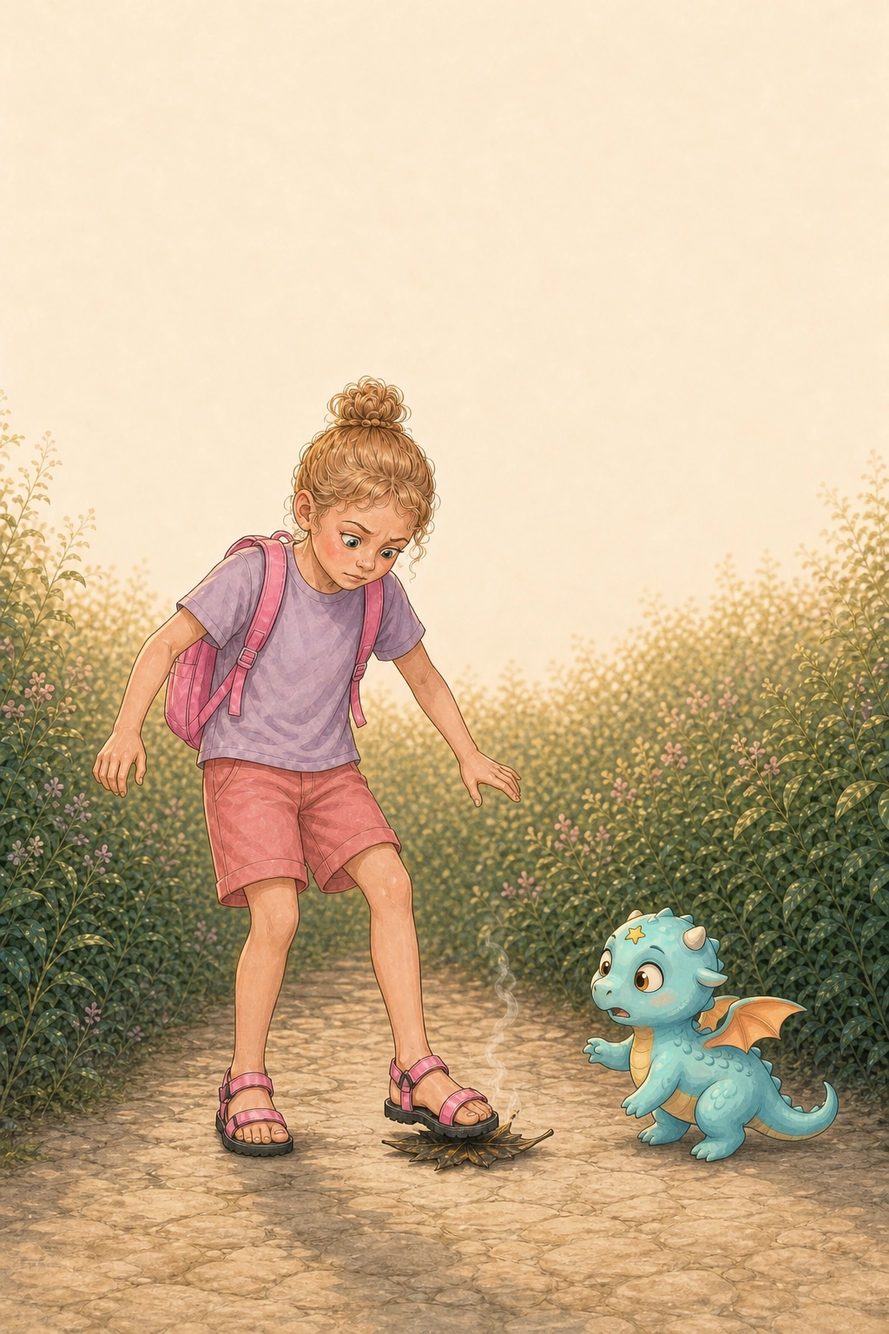
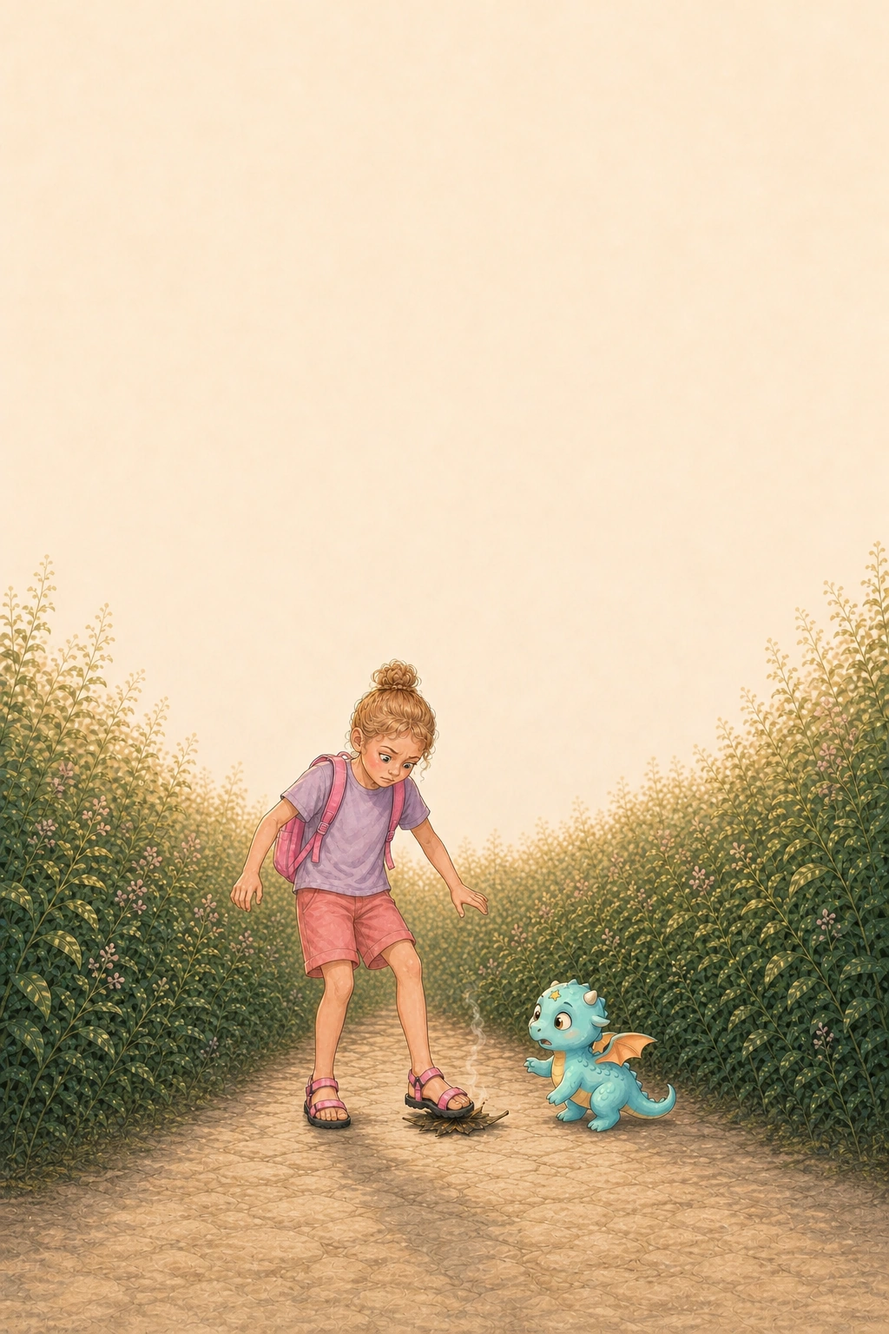
Finalize complete chapter two staging draft and mobile QA

diff --git a/site/staging-chapter2.html b/site/staging-chapter2.html
@@ -3,6 +3,6 @@
 header select{max-width:51vw;font:inherit;background:#fff9ed;color:inherit;border:1px solid #bdb6a5;border-radius:8px;padding:6px;min-height:32px}
 .copy{top:max(92px,9%);max-height:29%;overflow:auto}header{align-items:center;flex-wrap:wrap;row-gap:5px}.sample-links{width:100%;text-align:center;font-size:11px}.sample-links a{display:inline-block;padding:3px 6px;font-size:12px}
 #page8 .copy,#page14 .copy{background:#fff8eeed;border-radius:14px;padding:10px 12px;box-shadow:0 3px 18px #453b2520}
-@media(max-height:650px){.copy{font-size:16px;line-height:1.35}}
+@media(max-height:650px){.sample-links{display:none}.copy{top:60px;font-size:15px;line-height:1.25}.leaf img{object-fit:contain;object-position:center bottom}}
 @media(max-height:500px){header{padding:5px 10px}.copy{top:76px;max-height:38%;font-size:17px}.note{bottom:54px}nav{bottom:5px}}
-</style></head><body><main aria-label="Draft chapter reader"><header><a href="index.html">← Book</a><label>DRAFT <select id="chapter" aria-label="Draft chapter"><option value="staging.html" >Chapter 1 · The Little Bell</option><option value="staging-chapter2.html" selected>Chapter 2 · I Am Not Your Mama!</option></select></label><div class="sample-links" aria-label="Illustrated samples">Samples: <a href="#page4">Page 4</a> · <a href="#page8">Page 8</a> · <a href="#page11">Page 11</a></div></header><section class="leaf" id="page1" aria-label="Page 1" data-state="illustrated" style="background-image:url(assets/chapter2-01.webp?v=4444d9dbd8)" ><img src="assets/chapter2-01.webp?v=4444d9dbd8" width="960" height="1431" alt="Draft illustration for chapter 2 page 1" loading="eager" decoding="async"><div class="copy"><p><em>Crack.</em><br>I take a step back.  <br>A little hole opens in the egg.  <br>Something blue-green pokes out.<br>A nose?</p></div></section><section class="leaf" id="page2" aria-label="Page 2" data-state="illustrated" style="background-image:url(assets/chapter2-02.webp?v=2ab180864d)" hidden><img src="assets/chapter2-02.webp?v=2ab180864d" width="960" height="1431" alt="Draft illustration for chapter 2 page 2" loading="eager" decoding="async"><div class="copy"><p>Two tiny feet push through.  <br>Then a head.  <br>Then two small wings.<br>A dragon!</p></div></section><section class="leaf" id="page3" aria-label="Page 3" data-state="illustrated" style="background-image:url(assets/chapter2-03.webp?v=27f5f0559c)" hidden><img src="assets/chapter2-03.webp?v=27f5f0559c" width="960" height="1431" alt="Draft illustration for chapter 2 page 3" loading="eager" decoding="async"><div class="copy"><p>He looks at me.  <br>I look at him.<br>“Mama?” he says.</p></div></section><section class="leaf" id="page4" aria-label="Page 4" data-state="illustrated" style="background-image:url(assets/chapter2-04.webp?v=615311fd15)" hidden><img src="assets/chapter2-04.webp?v=615311fd15" width="960" height="1431" alt="Draft illustration for chapter 2 page 4" loading="eager" decoding="async"><div class="copy"><p>“Me?” I say.  <br>“I am nine!”  <br>“I am not your mama.”<br>He puts his little feet on my sandal.</p></div></section><section class="leaf" id="page5" aria-label="Page 5" data-state="illustrated" style="background-image:url(assets/chapter2-05.webp?v=34e0c5ff6d)" hidden><img src="assets/chapter2-05.webp?v=34e0c5ff6d" width="960" height="1431" alt="Draft illustration for chapter 2 page 5" loading="eager" decoding="async"><div class="copy"><p>“Where is your mama?” I ask.<br>I look behind the bush.  <br>I look between the trees.<br>“Hello? Is anyone here?”</p></div></section><section class="leaf" id="page6" aria-label="Page 6" data-state="illustrated" style="background-image:url(assets/chapter2-06.webp?v=0f13707f7e)" hidden><img src="assets/chapter2-06.webp?v=0f13707f7e" width="960" height="1431" alt="Draft illustration for chapter 2 page 6" loading="eager" decoding="async"><div class="copy"><p>I wait.<br>No answer.<br>“Maybe someone will come back,” I say.  <br>“You should wait by your egg.”</p></div></section><section class="leaf" id="page7" aria-label="Page 7" data-state="illustrated" style="background-image:url(assets/chapter2-07.webp?v=a72eb95e8e)" hidden><img src="assets/chapter2-07.webp?v=a72eb95e8e" width="960" height="1431" alt="Draft illustration for chapter 2 page 7" loading="eager" decoding="async"><div class="copy"><p>His little nose moves.  <br>His eyes close.<br>“Are you all right?”<br>“Ah… ah…”</p></div></section><section class="leaf" id="page8" aria-label="Page 8" data-state="illustrated" style="background-image:url(assets/chapter2-08.webp?v=b89c1d805b)" hidden><img src="assets/chapter2-08.webp?v=b89c1d805b" width="960" height="1431" alt="Draft illustration for chapter 2 page 8" loading="eager" decoding="async"><div class="copy"><p>“CHOO!”<br>A tiny flame shoots out.  <br>A dry leaf catches fire.<br>I jump back.<br>“STOP!”</p></div></section><section class="leaf" id="page9" aria-label="Page 9" data-state="illustrated" style="background-image:url(assets/chapter2-09.webp?v=eb6a67a99a)" hidden><img src="assets/chapter2-09.webp?v=eb6a67a99a" width="960" height="1431" alt="Draft illustration for chapter 2 page 9" loading="eager" decoding="async"><div class="copy"><p>I stamp on the leaf.  <br>Once. Twice.<br>The fire is out.<br>My heart is going so fast.</p></div></section><section class="leaf" id="page10" aria-label="Page 10" data-state="illustrated" style="background-image:url(assets/chapter2-10.webp?v=7badf46a9b)" hidden><img src="assets/chapter2-10.webp?v=7badf46a9b" width="960" height="1431" alt="Draft illustration for chapter 2 page 10" loading="eager" decoding="async"><div class="copy"><p>I turn to the dragon.<br>But he is not there.<br>There is only the bush.<br>“Where did you go?”</p></div></section><section class="leaf" id="page11" aria-label="Page 11" data-state="illustrated" style="background-image:url(assets/chapter2-11.webp?v=b7a21be6ee)" hidden><img src="assets/chapter2-11.webp?v=b7a21be6ee" width="960" height="1431" alt="Draft illustration for chapter 2 page 11" loading="eager" decoding="async"><div class="copy"><p>A small sound comes from the leaves.<br>“Mama?”<br>Two eyes look up at me.<br>Then I see a green tail.</p></div></section><section class="leaf" id="page12" aria-label="Page 12" data-state="illustrated" style="background-image:url(assets/chapter2-12.webp?v=9dd291dcab)" hidden><img src="assets/chapter2-12.webp?v=9dd291dcab" width="960" height="1431" alt="Draft illustration for chapter 2 page 12" loading="eager" decoding="async"><div class="copy"><p>His green scales turn blue-green again.  <br>Little by little, I can see him.<br>He is shaking.<br>“You are scared too,” I say.</p></div></section><section class="leaf" id="page13" aria-label="Page 13" data-state="illustrated" style="background-image:url(assets/chapter2-13.webp?v=8905e9b193)" hidden><img src="assets/chapter2-13.webp?v=8905e9b193" width="960" height="1431" alt="Draft illustration for chapter 2 page 13" loading="eager" decoding="async"><div class="copy"><p>I sit beside him.<br>“No more fire, please.”<br>He opens his mouth.<br>I duck.<br>A tiny burp comes out.</p></div></section><section class="leaf" id="page14" aria-label="Page 14" data-state="illustrated" style="background-image:url(assets/chapter2-14.webp?v=1ae21b649f)" hidden><img src="assets/chapter2-14.webp?v=1ae21b649f" width="960" height="1431" alt="Draft illustration for chapter 2 page 14" loading="eager" decoding="async"><div class="copy"><p>I stand up.<br>“I have to go to school.”  <br>“Someone may come back for you.”  <br>“Please stay here.”<br>I walk to the door.</p></div></section><section class="leaf" id="page15" aria-label="Page 15" data-state="illustrated" style="background-image:url(assets/chapter2-15.webp?v=fc70f0cb72)" hidden><img src="assets/chapter2-15.webp?v=fc70f0cb72" width="960" height="1431" alt="Draft illustration for chapter 2 page 15" loading="eager" decoding="async"><div class="copy"><p><em>Tap. Tap. Tap.</em><br>Little feet follow me.<br>I step out of the garden.  <br>He steps out too.</p></div></section><section class="leaf" id="page16" aria-label="Page 16" data-state="illustrated" style="background-image:url(assets/chapter2-16.webp?v=eee9c37ea8)" hidden><img src="assets/chapter2-16.webp?v=eee9c37ea8" width="960" height="1431" alt="Draft illustration for chapter 2 page 16" loading="eager" decoding="async"><div class="copy"><p>“You cannot come to school.”<br>He sits with one foot on my sandal.<br>“Mama.”<br>Oh, no.</p></div></section><nav aria-label="Draft page navigation"><button id="prev" disabled>← Previous</button><span id="position" aria-live="polite">Page 1 of 16</span><button id="next">Next →</button></nav><p class="note" id="note">Draft chapter · awaiting owner release approval</p></main></body></html>
+</style></head><body><main aria-label="Draft chapter reader"><header><a href="index.html">← Book</a><label>DRAFT <select id="chapter" aria-label="Draft chapter"><option value="staging.html" >Chapter 1 · The Little Bell</option><option value="staging-chapter2.html" selected>Chapter 2 · I Am Not Your Mama!</option></select></label><div class="sample-links" aria-label="Illustrated samples">Samples: <a href="#page4">Page 4</a> · <a href="#page8">Page 8</a> · <a href="#page11">Page 11</a></div></header><section class="leaf" id="page1" aria-label="Page 1" data-state="illustrated" style="background-image:url(assets/chapter2-01.webp?v=4444d9dbd8)" ><img src="assets/chapter2-01.webp?v=4444d9dbd8" width="960" height="1431" alt="Draft illustration for chapter 2 page 1" loading="eager" decoding="async"><div class="copy"><p><em>Crack.</em><br>I take a step back.  <br>A little hole opens in the egg.  <br>Something blue-green pokes out.<br>A nose?</p></div></section><section class="leaf" id="page2" aria-label="Page 2" data-state="illustrated" style="background-image:url(assets/chapter2-02.webp?v=2ab180864d)" hidden><img src="assets/chapter2-02.webp?v=2ab180864d" width="960" height="1431" alt="Draft illustration for chapter 2 page 2" loading="eager" decoding="async"><div class="copy"><p>Two tiny feet push through.  <br>Then a head.  <br>Then two small wings.<br>A dragon!</p></div></section><section class="leaf" id="page3" aria-label="Page 3" data-state="illustrated" style="background-image:url(assets/chapter2-03.webp?v=27f5f0559c)" hidden><img src="assets/chapter2-03.webp?v=27f5f0559c" width="960" height="1431" alt="Draft illustration for chapter 2 page 3" loading="eager" decoding="async"><div class="copy"><p>He looks at me.  <br>I look at him.<br>“Mama?” he says.</p></div></section><section class="leaf" id="page4" aria-label="Page 4" data-state="illustrated" style="background-image:url(assets/chapter2-04.webp?v=615311fd15)" hidden><img src="assets/chapter2-04.webp?v=615311fd15" width="960" height="1431" alt="Draft illustration for chapter 2 page 4" loading="eager" decoding="async"><div class="copy"><p>“Me?” I say.  <br>“I am nine!”  <br>“I am not your mama.”<br>He puts his little feet on my sandal.</p></div></section><section class="leaf" id="page5" aria-label="Page 5" data-state="illustrated" style="background-image:url(assets/chapter2-05.webp?v=34e0c5ff6d)" hidden><img src="assets/chapter2-05.webp?v=34e0c5ff6d" width="960" height="1431" alt="Draft illustration for chapter 2 page 5" loading="eager" decoding="async"><div class="copy"><p>“Where is your mama?” I ask.<br>I look behind the bush.  <br>I look between the trees.<br>“Hello? Is anyone here?”</p></div></section><section class="leaf" id="page6" aria-label="Page 6" data-state="illustrated" style="background-image:url(assets/chapter2-06.webp?v=0f13707f7e)" hidden><img src="assets/chapter2-06.webp?v=0f13707f7e" width="960" height="1431" alt="Draft illustration for chapter 2 page 6" loading="eager" decoding="async"><div class="copy"><p>I wait.<br>No answer.<br>“Maybe someone will come back,” I say.  <br>“You should wait by your egg.”</p></div></section><section class="leaf" id="page7" aria-label="Page 7" data-state="illustrated" style="background-image:url(assets/chapter2-07.webp?v=a72eb95e8e)" hidden><img src="assets/chapter2-07.webp?v=a72eb95e8e" width="960" height="1431" alt="Draft illustration for chapter 2 page 7" loading="eager" decoding="async"><div class="copy"><p>His little nose moves.  <br>His eyes close.<br>“Are you all right?”<br>“Ah… ah…”</p></div></section><section class="leaf" id="page8" aria-label="Page 8" data-state="illustrated" style="background-image:url(assets/chapter2-08.webp?v=b89c1d805b)" hidden><img src="assets/chapter2-08.webp?v=b89c1d805b" width="960" height="1431" alt="Draft illustration for chapter 2 page 8" loading="eager" decoding="async"><div class="copy"><p>“CHOO!”<br>A tiny flame shoots out.  <br>A dry leaf catches fire.<br>I jump back.<br>“STOP!”</p></div></section><section class="leaf" id="page9" aria-label="Page 9" data-state="illustrated" style="background-image:url(assets/chapter2-09.webp?v=cf0551d349)" hidden><img src="assets/chapter2-09.webp?v=cf0551d349" width="960" height="1431" alt="Draft illustration for chapter 2 page 9" loading="eager" decoding="async"><div class="copy"><p>I stamp on the leaf.  <br>Once. Twice.<br>The fire is out.<br>My heart is going so fast.</p></div></section><section class="leaf" id="page10" aria-label="Page 10" data-state="illustrated" style="background-image:url(assets/chapter2-10.webp?v=7badf46a9b)" hidden><img src="assets/chapter2-10.webp?v=7badf46a9b" width="960" height="1431" alt="Draft illustration for chapter 2 page 10" loading="eager" decoding="async"><div class="copy"><p>I turn to the dragon.<br>But he is not there.<br>There is only the bush.<br>“Where did you go?”</p></div></section><section class="leaf" id="page11" aria-label="Page 11" data-state="illustrated" style="background-image:url(assets/chapter2-11.webp?v=b7a21be6ee)" hidden><img src="assets/chapter2-11.webp?v=b7a21be6ee" width="960" height="1431" alt="Draft illustration for chapter 2 page 11" loading="eager" decoding="async"><div class="copy"><p>A small sound comes from the leaves.<br>“Mama?”<br>Two eyes look up at me.<br>Then I see a green tail.</p></div></section><section class="leaf" id="page12" aria-label="Page 12" data-state="illustrated" style="background-image:url(assets/chapter2-12.webp?v=9dd291dcab)" hidden><img src="assets/chapter2-12.webp?v=9dd291dcab" width="960" height="1431" alt="Draft illustration for chapter 2 page 12" loading="eager" decoding="async"><div class="copy"><p>His green scales turn blue-green again.  <br>Little by little, I can see him.<br>He is shaking.<br>“You are scared too,” I say.</p></div></section><section class="leaf" id="page13" aria-label="Page 13" data-state="illustrated" style="background-image:url(assets/chapter2-13.webp?v=8905e9b193)" hidden><img src="assets/chapter2-13.webp?v=8905e9b193" width="960" height="1431" alt="Draft illustration for chapter 2 page 13" loading="eager" decoding="async"><div class="copy"><p>I sit beside him.<br>“No more fire, please.”<br>He opens his mouth.<br>I duck.<br>A tiny burp comes out.</p></div></section><section class="leaf" id="page14" aria-label="Page 14" data-state="illustrated" style="background-image:url(assets/chapter2-14.webp?v=3b092ae6ee)" hidden><img src="assets/chapter2-14.webp?v=3b092ae6ee" width="960" height="1431" alt="Draft illustration for chapter 2 page 14" loading="eager" decoding="async"><div class="copy"><p>I stand up.<br>“I have to go to school.”  <br>“Someone may come back for you.”  <br>“Please stay here.”<br>I walk to the door.</p></div></section><section class="leaf" id="page15" aria-label="Page 15" data-state="illustrated" style="background-image:url(assets/chapter2-15.webp?v=fc70f0cb72)" hidden><img src="assets/chapter2-15.webp?v=fc70f0cb72" width="960" height="1431" alt="Draft illustration for chapter 2 page 15" loading="eager" decoding="async"><div class="copy"><p><em>Tap. Tap. Tap.</em><br>Little feet follow me.<br>I step out of the garden.  <br>He steps out too.</p></div></section><section class="leaf" id="page16" aria-label="Page 16" data-state="illustrated" style="background-image:url(assets/chapter2-16.webp?v=eee9c37ea8)" hidden><img src="assets/chapter2-16.webp?v=eee9c37ea8" width="960" height="1431" alt="Draft illustration for chapter 2 page 16" loading="eager" decoding="async"><div class="copy"><p>“You cannot come to school.”<br>He sits with one foot on my sandal.<br>“Mama.”<br>Oh, no.</p></div></section><nav aria-label="Draft page navigation"><button id="prev" disabled>← Previous</button><span id="position" aria-live="polite">Page 1 of 16</span><button id="next">Next →</button></nav><p class="note" id="note">Draft chapter · awaiting owner release approval</p></main></body></html>

diff --git a/site/staging.html b/site/staging.html
@@ -3,6 +3,6 @@
 header select{max-width:51vw;font:inherit;background:#fff9ed;color:inherit;border:1px solid #bdb6a5;border-radius:8px;padding:6px;min-height:32px}
 .copy{top:max(92px,9%);max-height:29%;overflow:auto}header{align-items:center;flex-wrap:wrap;row-gap:5px}.sample-links{width:100%;text-align:center;font-size:11px}.sample-links a{display:inline-block;padding:3px 6px;font-size:12px}
 #page8 .copy,#page14 .copy{background:#fff8eeed;border-radius:14px;padding:10px 12px;box-shadow:0 3px 18px #453b2520}
-@media(max-height:650px){.copy{font-size:16px;line-height:1.35}}
+@media(max-height:650px){.sample-links{display:none}.copy{top:60px;font-size:15px;line-height:1.25}.leaf img{object-fit:contain;object-position:center bottom}}
 @media(max-height:500px){header{padding:5px 10px}.copy{top:76px;max-height:38%;font-size:17px}.note{bottom:54px}nav{bottom:5px}}
 </style></head><body><main aria-label="Draft chapter reader"><header><a href="index.html">← Book</a><label>DRAFT <select id="chapter" aria-label="Draft chapter"><option value="staging.html" selected>Chapter 1 · The Little Bell</option><option value="staging-chapter2.html" >Chapter 2 · I Am Not Your Mama!</option></select></label></header><section class="leaf" id="page1" aria-label="Page 1" data-state="illustrated" style="background-image:url(assets/chapter1-01.webp?v=5cdf1d9239)" ><img src="assets/chapter1-01.webp?v=5cdf1d9239" width="960" height="1431" alt="Draft illustration for chapter 1 page 1" loading="eager" decoding="async"><div class="copy"><p>Today is my birthday.  <br>I am nine!  <br>And today, I can walk to school  <br>all by myself.</p></div></section><section class="leaf" id="page2" aria-label="Page 2" data-state="illustrated" style="background-image:url(assets/chapter1-02.webp?v=ac8312f8d1)" hidden><img src="assets/chapter1-02.webp?v=ac8312f8d1" width="960" height="1431" alt="Draft illustration for chapter 1 page 2" loading="eager" decoding="async"><div class="copy"><p>Dad stands by the door.  <br>“Happy birthday, Shir!” he says.  <br>“Good luck today!”  <br>I smile. “Bye, Dad!”</p></div></section><section class="leaf" id="page3" aria-label="Page 3" data-state="illustrated" style="background-image:url(assets/chapter1-03.webp?v=c496ef8931)" hidden><img src="assets/chapter1-03.webp?v=c496ef8931" width="960" height="1431" alt="Draft illustration for chapter 1 page 3" loading="eager" decoding="async"><div class="copy"><p>My pink bag is on my back.  <br>I know the way to school.  <br>Past the crosswalk. Past the tall buildings.  <br>I walk this way every day.</p></div></section><section class="leaf" id="page4" aria-label="Page 4" data-state="illustrated" style="background-image:url(assets/chapter1-04.webp?v=81d92725b7)" hidden><img src="assets/chapter1-04.webp?v=81d92725b7" width="960" height="1431" alt="Draft illustration for chapter 1 page 4" loading="eager" decoding="async"><div class="copy"><p>But today, something is different.<br><em>Ding!</em><br>A tiny bell.</p></div></section><section class="leaf" id="page5" aria-label="Page 5" data-state="illustrated" style="background-image:url(assets/chapter1-05.webp?v=0c43506ffd)" hidden><img src="assets/chapter1-05.webp?v=0c43506ffd" width="960" height="1431" alt="Draft illustration for chapter 1 page 5" loading="eager" decoding="async"><div class="copy"><p>I stop and look around.  <br>A car goes past.  <br>A woman walks her dog.  <br>Where is the bell?</p></div></section><section class="leaf" id="page6" aria-label="Page 6" data-state="illustrated" style="background-image:url(assets/chapter1-06.webp?v=f5b3ad705a)" hidden><img src="assets/chapter1-06.webp?v=f5b3ad705a" width="960" height="1431" alt="Draft illustration for chapter 1 page 6" loading="eager" decoding="async"><div class="copy"><p>Then I see it.  <br>An old wooden door  <br>in the wall of a building.<br>That door was not here yesterday.</p></div></section><section class="leaf" id="page7" aria-label="Page 7" data-state="illustrated" style="background-image:url(assets/chapter1-07.webp?v=f6b8acb1d8)" hidden><img src="assets/chapter1-07.webp?v=f6b8acb1d8" width="960" height="1431" alt="Draft illustration for chapter 1 page 7" loading="eager" decoding="async"><div class="copy"><p>People walk past the door.  <br>No one looks at it.  <br>But I cannot look away.<br>Where did it come from?</p></div></section><section class="leaf" id="page8" aria-label="Page 8" data-state="illustrated" style="background-image:url(assets/chapter1-08.webp?v=27a0ca5473)" hidden><img src="assets/chapter1-08.webp?v=27a0ca5473" width="960" height="1431" alt="Draft illustration for chapter 1 page 8" loading="eager" decoding="async"><div class="copy"><p>I take one step closer.<br><em>Ding!</em><br>I jump.  <br>There it is again!</p></div></section><section class="leaf" id="page9" aria-label="Page 9" data-state="illustrated" style="background-image:url(assets/chapter1-09.webp?v=1fdce8df41)" hidden><img src="assets/chapter1-09.webp?v=1fdce8df41" width="960" height="1431" alt="Draft illustration for chapter 1 page 9" loading="eager" decoding="async"><div class="copy"><p>I put my hand on the handle.  <br>I push.  <br>I pull.<br>The door will not open.</p></div></section><section class="leaf" id="page10" aria-label="Page 10" data-state="illustrated" style="background-image:url(assets/chapter1-10.webp?v=c6f46a5eed)" hidden><img src="assets/chapter1-10.webp?v=c6f46a5eed" width="960" height="1431" alt="Draft illustration for chapter 1 page 10" loading="eager" decoding="async"><div class="copy"><p>“Well… happy birthday to me,” I say.<br><em>Click.</em><br>I am still holding the handle.  <br>But I am not moving.</p></div></section><section class="leaf" id="page11" aria-label="Page 11" data-state="illustrated" style="background-image:url(assets/chapter1-11.webp?v=60446e5dd0)" hidden><img src="assets/chapter1-11.webp?v=60446e5dd0" width="960" height="1431" alt="Draft illustration for chapter 1 page 11" loading="eager" decoding="async"><div class="copy"><p>The door opens a little.<br><em>DING!</em><br>The bell is louder now.  <br>It is on the other side.</p></div></section><section class="leaf" id="page12" aria-label="Page 12" data-state="illustrated" style="background-image:url(assets/chapter1-12.webp?v=6b449817c8)" hidden><img src="assets/chapter1-12.webp?v=6b449817c8" width="960" height="1431" alt="Draft illustration for chapter 1 page 12" loading="eager" decoding="async"><div class="copy"><p>I push the door wide.<br>A garden?<br>Here?  <br>Between all these buildings?</p></div></section><section class="leaf" id="page13" aria-label="Page 13" data-state="illustrated" style="background-image:url(assets/chapter1-13.webp?v=d86245c346)" hidden><img src="assets/chapter1-13.webp?v=d86245c346" width="960" height="1431" alt="Draft illustration for chapter 1 page 13" loading="eager" decoding="async"><div class="copy"><p>I should go to school.  <br>I do not want to be late.  <br>I am not allowed to go in here.  <br>What if it is not safe?<br>Just one look…  <br>I step inside.</p></div></section><section class="leaf" id="page14" aria-label="Page 14" data-state="illustrated" style="background-image:url(assets/chapter1-14.webp?v=99d2d06a61)" hidden><img src="assets/chapter1-14.webp?v=99d2d06a61" width="960" height="1431" alt="Draft illustration for chapter 1 page 14" loading="eager" decoding="async"><div class="copy"><p>Soft, golden light fills the garden.  <br>It shines on the green leaves.  <br>There is no sound from the street.<br>Even the air feels different.</p></div></section><section class="leaf" id="page15" aria-label="Page 15" data-state="illustrated" style="background-image:url(assets/chapter1-15.webp?v=477b259d0f)" hidden><img src="assets/chapter1-15.webp?v=477b259d0f" width="960" height="1431" alt="Draft illustration for chapter 1 page 15" loading="eager" decoding="async"><div class="copy"><p>I walk past the green bushes.<br><em>Click. Click.</em><br>I stop.<br><em>Click. Click.</em><br>Something is behind that bush.</p></div></section><section class="leaf" id="page16" aria-label="Page 16" data-state="illustrated" style="background-image:url(assets/chapter1-16.webp?v=3a94af69ca)" hidden><img src="assets/chapter1-16.webp?v=3a94af69ca" width="960" height="1431" alt="Draft illustration for chapter 1 page 16" loading="eager" decoding="async"><div class="copy"><p>I look over the bush.<br>An egg.  <br>An egg as big as my school bag!<br>Then the egg moves.</p></div></section><nav aria-label="Draft page navigation"><button id="prev" disabled>← Previous</button><span id="position" aria-live="polite">Page 1 of 16</span><button id="next">Next →</button></nav><p class="note" id="note">Draft chapter · awaiting owner release approval</p></main></body></html>

diff --git a/scripts/build_staging.py b/scripts/build_staging.py
@@ -30,7 +30,7 @@ for chapter,title,filename in chapters:
 header select{max-width:51vw;font:inherit;background:#fff9ed;color:inherit;border:1px solid #bdb6a5;border-radius:8px;padding:6px;min-height:32px}
 .copy{top:max(92px,9%);max-height:29%;overflow:auto}header{align-items:center;flex-wrap:wrap;row-gap:5px}.sample-links{width:100%;text-align:center;font-size:11px}.sample-links a{display:inline-block;padding:3px 6px;font-size:12px}
 #page8 .copy,#page14 .copy{background:#fff8eeed;border-radius:14px;padding:10px 12px;box-shadow:0 3px 18px #453b2520}
-@media(max-height:650px){.copy{font-size:16px;line-height:1.35}}
+@media(max-height:650px){.sample-links{display:none}.copy{top:60px;font-size:15px;line-height:1.25}.leaf img{object-fit:contain;object-position:center bottom}}
 @media(max-height:500px){header{padding:5px 10px}.copy{top:76px;max-height:38%;font-size:17px}.note{bottom:54px}nav{bottom:5px}}
 </style></head><body><main aria-label="Draft chapter reader"><header><a href="index.html">← Book</a><label>DRAFT <select id="chapter" aria-label="Draft chapter">'''+options+'</select></label>'+samples+'</header>'+''.join(leaves)+'''<nav aria-label="Draft page navigation"><button id="prev" disabled>← Previous</button><span id="position" aria-live="polite">Page 1 of 16</span><button id="next">Next →</button></nav><p class="note" id="note">Draft chapter · awaiting owner release approval</p></main></body></html>''')
     print(f'Built chapter {chapter}: {len(illustrated)} illustrations / 16 pages → {filename}')

diff --git a/HANDOFF.md b/HANDOFF.md
@@ -159,3 +159,5 @@ Latest: owner approved Chapter2 pilots and authorized all remaining13 pages for 
 Cost audit: owner requested online research; see production references/cost-control.md. $25 topup completed (5275credits). BatchA pages1/2/3 rendered high but not selected; B–E prepared medium1024x1536, not yet submitted.
 
 Current checkpoint: batchesA/B complete; pages2/3/5/6/7 installed. BatchC submitted medium:10/12 complete and installed;9 still pending at last file check. Mac locked during attempt to select batchD: ask owner to unlock; do not use backend submission. D/E not submitted, Repair1 prepared not submitted. Page1 original rejected backpack print and high framing. Cost audit committed. No new staging deployment yet.
+
+Latest completed Chapter2 draft: all16 pages illustrated; pilots4/8/11 owner-approved, remaining images agent-reviewed pending owner review. Medium1024x1536 used after cost audit; original pages2/3 remain high. Page9 stalled request cancelled and isolated retry succeeded. Backpack/framing repairs selected on1/9/13/14/15/16. Staging only; main release NOT authorized. Short-phone layout keeps full artwork bottom-aligned and text above; main Chapter1 unchanged.

diff --git a/AGENTS.md b/AGENTS.md
@@ -47,3 +47,5 @@ Latest approval 2026-11-19: owner said “yes, looks right, please push.” All 
 2026-11-19 owner authorized Chapter2 pilot art pages4/8/11 and public staging deployment, then review BEFORE remaining images. Main Chapter2 release not approved.
 
 Latest: owner approved Chapter2 pilots and authorized all remaining13 pages for staging review; commit periodically. Main Chapter2 release still requires explicit approval.
+
+Latest completed Chapter2 draft: all16 pages illustrated; pilots4/8/11 owner-approved, remaining images agent-reviewed pending owner review. Medium1024x1536 used after cost audit; original pages2/3 remain high. Page9 stalled request cancelled and isolated retry succeeded. Backpack/framing repairs selected on1/9/13/14/15/16. Staging only; main release NOT authorized. Short-phone layout keeps full artwork bottom-aligned and text above; main Chapter1 unchanged.

diff --git a/chapters/chapter2.md b/chapters/chapter2.md
@@ -1,6 +1,6 @@
 # Chapter 2: I Am Not Your Mama!
 
-Status: owner accepted draft on 2026-11-19. Shared scale and sandal-interaction references authorized on 2026-11-19; references approved; three page-art samples (4/8/11) and public staging authorized. Pilots approved; remaining page art authorized and in production for staging review. Not approved for publication.
+Status: owner accepted draft on 2026-11-19. Shared scale and sandal-interaction references authorized on 2026-11-19; references approved; three page-art samples (4/8/11) and public staging authorized. All16 illustrations complete and staged for owner review; pilots4/8/11 approved. Not approved for publication.
 
 ## Page 1
 
